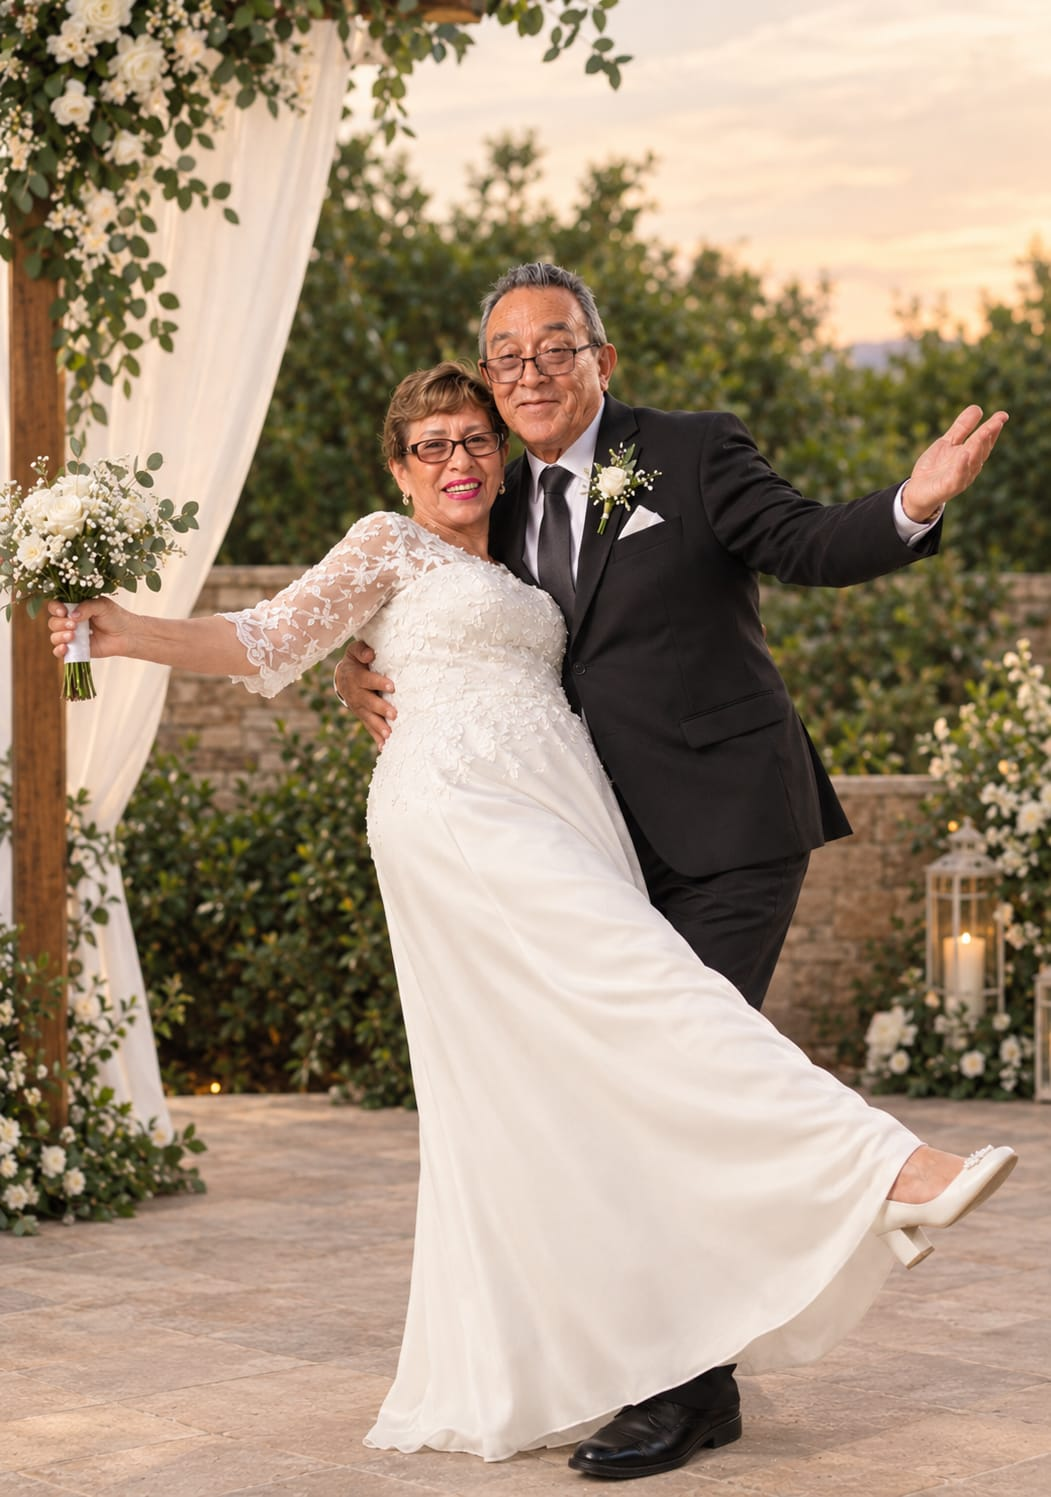
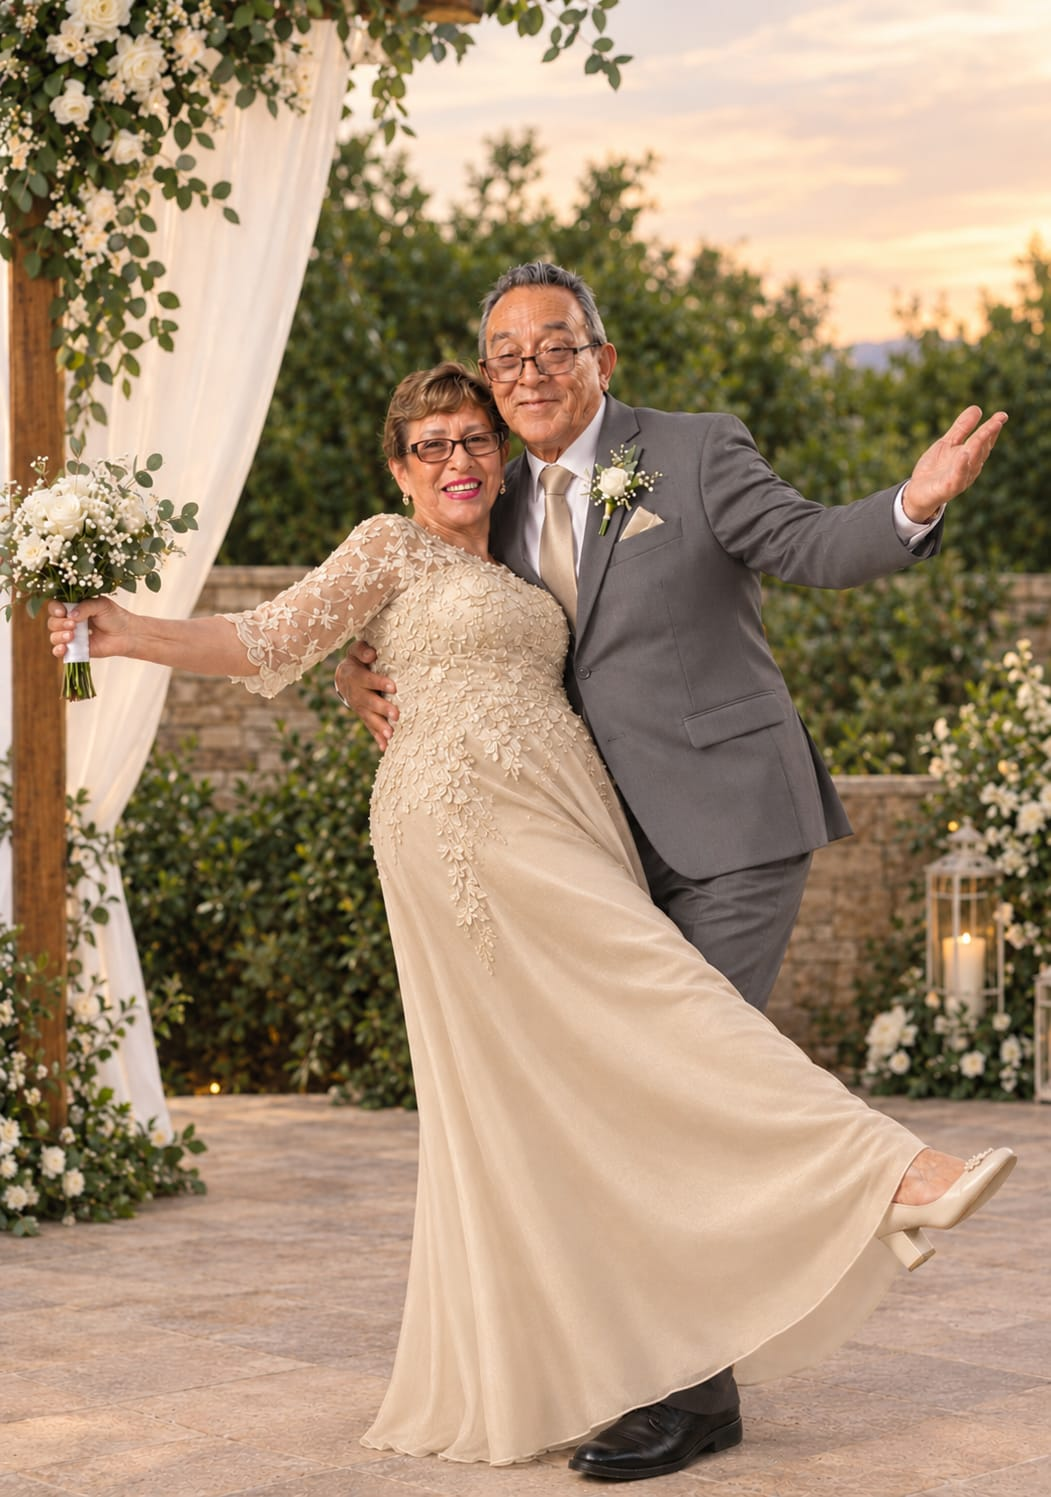
modified:   assets/pareja_6.jpeg 	modified:   index.html

diff --git a/index.html b/index.html
@@ -8,7 +8,7 @@
 <meta name="robots" content="noindex">
 <link rel="preconnect" href="https://fonts.googleapis.com">
 <link rel="preconnect" href="https://fonts.gstatic.com" crossorigin>
-<link href="https://fonts.googleapis.com/css2?family=Cormorant+Garamond:ital,wght@0,400;0,500;0,600;1,400&family=Pinyon+Script&display=swap" rel="stylesheet">
+<link href="https://fonts.googleapis.com/css2?family=Cormorant+Garamond:ital,wght@0,400;0,500;0,600;0,700;1,400&family=Dancing+Script:wght@500;600;700&family=Pinyon+Script&display=swap" rel="stylesheet">
 <style>
 :root{
   --bg:#faf6ee;--card:#fffdf8;--ink:#3a3226;--soft:#7a6f5e;--gold:#a98a3d;--gold2:#d8bf7a;--deep:#2b2417;--line:rgba(169,138,61,.35);
@@ -48,11 +48,11 @@ h1,h2,h3,p{margin:0}
 @keyframes pulso{50%{opacity:.35}}
 @keyframes halo-dorado{50%{opacity:.48;transform:scale(1.012)}}
 @keyframes recuerdo-vivo{to{transform:scale(1.09)}}
-@keyframes entra-recuerdo-oceano{from{opacity:0;transform:translateX(-28px) rotate(-5deg) scale(.96)}to{opacity:1;transform:rotate(-1.3deg) scale(1)}}
-@keyframes entra-recuerdo-pradera{from{opacity:0;transform:translateY(30px) rotate(4deg) scale(.96)}to{opacity:1;transform:rotate(1deg) scale(1)}}
-@keyframes entra-recuerdo-cerezos{from{opacity:0;transform:scale(.88) rotate(-4deg)}to{opacity:1;transform:rotate(-.5deg) scale(1)}}
-@keyframes entra-recuerdo-atardecer{from{opacity:0;transform:translateY(26px) rotate(5deg)}to{opacity:1;transform:rotate(1.2deg)}}
-@keyframes entra-recuerdo-bodas{from{opacity:0;transform:translateX(26px) rotate(-4deg) scale(.96)}to{opacity:1;transform:rotate(-.8deg) scale(1)}}
+@keyframes entra-recuerdo-oceano{from{opacity:0;transform:translateX(-28px) scale(.96)}to{opacity:1;transform:scale(1)}}
+@keyframes entra-recuerdo-pradera{from{opacity:0;transform:translateY(30px) scale(.96)}to{opacity:1;transform:scale(1)}}
+@keyframes entra-recuerdo-cerezos{from{opacity:0;transform:scale(.88)}to{opacity:1;transform:scale(1)}}
+@keyframes entra-recuerdo-atardecer{from{opacity:0;transform:translateY(26px)}to{opacity:1}}
+@keyframes entra-recuerdo-bodas{from{opacity:0;transform:translateX(26px) scale(.96)}to{opacity:1;transform:scale(1)}}
 
 /* ---------- LAYOUT ---------- */
 main{max-width:560px;margin:0 auto;padding:0 18px 40px}
@@ -68,10 +68,10 @@ section{padding:34px 0;text-align:center}
 /* ---------- HERO ---------- */
 .hero{padding-top:52px;position:relative}
 .hero .eyebrow{font-size:1rem}
-.anniversary-badge{position:relative;display:inline-flex;align-items:center;justify-content:center;margin:36px auto 12px;padding:14px 42px;border-radius:999px;background:linear-gradient(135deg,#fff6d8 0%,#f1d582 25%,#c89c40 52%,#f8ebbf 100%);border:1px solid rgba(113,83,24,.45);box-shadow:0 16px 26px -18px rgba(72,54,14,.85),inset 0 2px 0 rgba(255,255,255,.7);transform:rotate(-2deg);overflow:hidden}
+.anniversary-badge{position:relative;display:inline-flex;align-items:center;justify-content:center;margin:36px auto 12px;padding:14px 42px;border-radius:999px;background:linear-gradient(135deg,#fff6d8 0%,#f1d582 25%,#c89c40 52%,#f8ebbf 100%);border:1px solid rgba(113,83,24,.45);box-shadow:0 16px 26px -18px rgba(72,54,14,.85),inset 0 2px 0 rgba(255,255,255,.7);overflow:hidden}
 .anniversary-badge::before,.anniversary-badge::after{content:"✦";position:absolute;top:50%;transform:translateY(-50%);font-size:1.45rem;color:rgba(85,61,7,.7)}
 .anniversary-badge::before{left:16px}.anniversary-badge::after{right:16px}
-.anniversary-badge span{display:block;padding:0 10px;font-size:1.05rem;letter-spacing:.26em;text-transform:uppercase;font-weight:800;color:#3d2e13;text-shadow:0 1px 0 rgba(255,255,255,.52)}
+.anniversary-badge span{display:block;padding:0 10px;font-size:1.15rem;letter-spacing:.2em;text-transform:uppercase;font-weight:700;color:#2b1f09;text-shadow:0 1px 0 rgba(255,255,255,.52)}
 .marco{position:relative;width:min(78%,330px);margin:0 auto 6px;aspect-ratio:4/5;border-radius:999px 999px 6px 6px;padding:10px;border:1px solid var(--gold2);box-shadow:0 0 0 7px rgba(255,253,248,.62),0 18px 42px -24px rgba(80,60,10,.5)}
 .marco::before{content:"";position:absolute;inset:-7px;border:1px solid rgba(216,191,122,.45);border-radius:inherit;pointer-events:none;animation:halo-dorado 5s ease-in-out infinite}
 .marco-in{width:100%;height:100%;border-radius:999px 999px 2px 2px;overflow:hidden;background:linear-gradient(160deg,#eadcb6,#c9ad63);display:grid;place-items:center;text-align:center;color:#fff8e2;font-size:.9rem;letter-spacing:.08em}
@@ -83,15 +83,15 @@ section{padding:34px 0;text-align:center}
 .recuerdos-grid{display:grid;grid-template-columns:1fr;gap:12px;max-width:520px;margin:0 auto}
 .recuerdos-grid figure{position:relative;margin:0;padding:7px;border:1px solid var(--line);background:var(--card);box-shadow:0 12px 28px -18px rgba(60,45,10,.5);transition:transform .45s ease,box-shadow .45s ease}
 .recuerdos-grid img{display:block;width:100%;height:auto;transition:transform .5s ease}
-.foto-oceano{padding:10px 10px 30px!important;border-color:rgba(169,138,61,.58)!important;background:linear-gradient(145deg,#fffefa,#f5edda)!important;transform:rotate(-1.3deg);box-shadow:0 18px 32px -20px rgba(60,45,10,.58)!important}
+.foto-oceano{padding:10px 10px 30px!important;border-color:rgba(169,138,61,.58)!important;background:linear-gradient(145deg,#fffefa,#f5edda)!important;box-shadow:0 18px 32px -20px rgba(60,45,10,.58)!important}
 .foto-oceano::after{content:"♡";position:absolute;right:17px;bottom:0;color:var(--gold);font:1.35rem var(--serif)}
-.foto-pradera{padding:9px!important;border:3px double rgba(169,138,61,.62)!important;background:#fffdf8!important;transform:rotate(1deg);box-shadow:0 0 0 5px rgba(216,191,122,.15),0 18px 32px -20px rgba(60,45,10,.55)!important}
+.foto-pradera{padding:9px!important;border:3px double rgba(169,138,61,.62)!important;background:#fffdf8!important;box-shadow:0 0 0 5px rgba(216,191,122,.15),0 18px 32px -20px rgba(60,45,10,.55)!important}
 .foto-pradera::before{content:"";position:absolute;inset:4px;border:1px solid rgba(216,191,122,.4);pointer-events:none;z-index:1}
-.foto-cerezos{padding:8px!important;border:1px solid rgba(169,138,61,.48)!important;border-radius:20px!important;background:linear-gradient(135deg,#fffdf8,#f5e8e4)!important;transform:rotate(-.5deg);box-shadow:0 15px 34px -18px rgba(90,55,40,.45)!important}
+.foto-cerezos{padding:8px!important;border:1px solid rgba(169,138,61,.48)!important;border-radius:20px!important;background:linear-gradient(135deg,#fffdf8,#f5e8e4)!important;box-shadow:0 15px 34px -18px rgba(90,55,40,.45)!important}
 .foto-cerezos img{border-radius:13px}
-.foto-atardecer{padding:9px!important;border:1px solid #d8bf7a!important;background:linear-gradient(145deg,#34251f,#120f13)!important;transform:rotate(1.2deg);box-shadow:0 18px 38px -18px rgba(35,21,17,.65)!important}
+.foto-atardecer{padding:9px!important;border:1px solid #d8bf7a!important;background:linear-gradient(145deg,#34251f,#120f13)!important;box-shadow:0 18px 38px -18px rgba(35,21,17,.65)!important}
 .foto-atardecer img{filter:saturate(.92) contrast(1.04)}
-.foto-bodas{padding:12px!important;border:3px double rgba(169,138,61,.72)!important;background:linear-gradient(145deg,#fffefa,#eee1c4)!important;transform:rotate(-.8deg);box-shadow:0 0 0 5px rgba(255,253,248,.8),0 20px 38px -20px rgba(60,45,10,.58)!important}
+.foto-bodas{padding:12px!important;border:3px double rgba(169,138,61,.72)!important;background:linear-gradient(145deg,#fffefa,#eee1c4)!important;box-shadow:0 0 0 5px rgba(255,253,248,.8),0 20px 38px -20px rgba(60,45,10,.58)!important}
 .foto-bodas::before{content:"";position:absolute;inset:5px;border:1px solid rgba(216,191,122,.5);pointer-events:none;z-index:1}
 .recuerdos.visible .foto-oceano{animation:entra-recuerdo-oceano .95s .12s both cubic-bezier(.2,.7,.2,1)}
 .recuerdos.visible .foto-pradera{animation:entra-recuerdo-pradera .95s .12s both cubic-bezier(.2,.7,.2,1)}
@@ -107,7 +107,7 @@ section{padding:34px 0;text-align:center}
   .foto-bodas:hover{box-shadow:0 0 0 5px rgba(255,253,248,.8),0 24px 44px -20px rgba(60,45,10,.65)!important}
 }
 .mono{position:relative;z-index:2;width:62px;height:62px;margin:-31px auto 0;background:url(assets/sello.png) center/260% no-repeat;filter:drop-shadow(0 5px 6px rgba(80,60,10,.35))}
-.hero h1{font-family:var(--script);font-weight:400;font-size:clamp(3.4rem,15vw,5rem);line-height:1.15;margin:28px 0 6px}
+.hero h1{font-family:'Dancing Script',var(--script);font-weight:600;font-size:clamp(3.4rem,15vw,5rem);line-height:1.15;margin:28px 0 6px}
 .fecha{display:flex;justify-content:center;align-items:center;gap:18px;margin-top:10px;letter-spacing:.3em;text-transform:uppercase;font-size:.85rem}
 .fecha b{font-size:2.6rem;font-weight:500;letter-spacing:0;line-height:1;color:var(--gold)}
 .fecha span{padding:0 4px;border-inline:1px solid var(--line);padding-inline:18px;line-height:1.5}
@@ -119,18 +119,20 @@ section{padding:34px 0;text-align:center}
 .evento .titulo{font-size:clamp(1.8rem,7vw,2.4rem);line-height:1.2}
 .fecha-evento{margin-top:16px;color:var(--soft);font-size:1.25rem;letter-spacing:.08em}
 .frase{font-size:1.3rem;font-style:italic;line-height:1.75}
+#frase{white-space:pre-line}
 .frase::before{content:"“";display:block;font:4rem/0.6 var(--serif);color:#d8bf7a;margin-bottom:10px}
 .nombres-padrinos p{font-size:1.2rem;margin-top:8px}
 .lugar{font-size:1.5rem;font-weight:600;margin-top:12px}
 .dir{color:var(--soft);margin-top:2px}
 .vestimenta-tipo{font-size:1.8rem;font-weight:600;color:var(--gold);margin:10px 0}
 .vestimenta-nota{max-width:380px;margin:0 auto;color:var(--soft)}
+.evento .eyebrow{font-size:1.05rem;font-weight:700;letter-spacing:.2em;color:var(--deep)}
 .horarios{display:grid;grid-template-columns:1fr 1fr;margin:26px 0 28px;border-block:1px solid var(--line)}
 .horarios div{padding:16px 6px;text-align:center}
 .horarios.una-hora{grid-template-columns:1fr}
 .horarios.una-hora div+div{border-left:0}
 .horarios div+div{border-left:1px solid var(--line)}
-.horarios dt{font-size:.74rem;letter-spacing:.3em;text-transform:uppercase;color:var(--soft)}
+.horarios dt{font-size:1.05rem;letter-spacing:.2em;text-transform:uppercase;font-weight:700;color:var(--deep)}
 .horarios dd{margin:4px 0 0;font-size:1.5rem;font-weight:500;color:var(--gold)}
 .evento .card>*{opacity:0;transform:translateY(12px);transition:opacity .75s ease,transform .75s cubic-bezier(.2,.7,.2,1)}
 .evento.visible .card>*{opacity:1;transform:translateY(0)}
@@ -150,7 +152,9 @@ section{padding:34px 0;text-align:center}
 .cuenta div{min-width:68px;padding:14px 4px 10px;border:1px solid var(--line);background:rgba(255,253,248,.7)}
 .cuenta b{display:block;font:500 2.4rem/1 var(--serif);color:var(--gold);font-variant-numeric:tabular-nums}
 .cuenta span{font-size:.66rem;letter-spacing:.25em;text-transform:uppercase;color:var(--soft)}
-.rsvp-note{margin:14px auto 24px;max-width:340px}
+.rsvp-note{max-width:440px;margin:14px auto 18px;text-align:center}
+.rsvp-date{display:block;margin-top:4px;font-family:var(--script);font-size:clamp(1.6rem,5.5vw,2rem);line-height:1.2;color:var(--gold)}
+.rsvp-thanks{text-align:center}
 .rsvp-note strong{color:var(--gold);font-weight:600}
 .aviso{margin-top:22px;font-size:.92rem;color:var(--soft);font-style:italic}
 .estado{min-height:1.5em;margin:12px 0 0;font-style:italic;color:var(--soft)}
@@ -229,6 +233,14 @@ select:focus,textarea:focus{outline:2px solid var(--gold);outline-offset:1px}
     </div>
   </section>
 
+  <!-- PADRINOS -->
+  <section class="reveal">
+    <div class="card">
+      <h2 class="titulo">Padrinos</h2>
+      <div class="nombres-padrinos" id="padrinos"></div>
+    </div>
+  </section>
+
   <!-- FOTO -->
   <section class="recuerdos reveal">
     <div class="recuerdos-grid">
@@ -254,16 +266,6 @@ select:focus,textarea:focus{outline:2px solid var(--gold);outline-offset:1px}
     </div>
   </section>
 
-  <!-- CÓDIGO DE VESTIMENTA -->
-  <section class="reveal">
-    <div class="card">
-      <p class="eyebrow">Importante</p>
-      <h2 class="titulo">Código de vestimenta</h2>
-      <p class="vestimenta-tipo">Formal</p>
-      <p class="vestimenta-nota">Para mantener la armonía de nuestra celebración, agradecemos evitar los tonos gris y azul marino.</p>
-    </div>
-  </section>
-
   <!-- CUENTA -->
   <section class="reveal">
     <div class="card dark">
@@ -283,11 +285,12 @@ select:focus,textarea:focus{outline:2px solid var(--gold);outline-offset:1px}
     </div>
   </section>
 
-  <!-- PADRINOS -->
+  <!-- CÓDIGO DE VESTIMENTA -->
   <section class="reveal">
     <div class="card">
-      <h2 class="titulo">Padrinos</h2>
-      <div class="nombres-padrinos" id="padrinos"></div>
+      <h2 class="titulo">Código de vestimenta</h2>
+      <p class="vestimenta-tipo">Formal</p>
+      <p class="vestimenta-nota">Para mantener la armonía de nuestra celebración, agradecemos evitar los tonos gris y azul marino.</p>
     </div>
   </section>
 
@@ -301,7 +304,8 @@ select:focus,textarea:focus{outline:2px solid var(--gold);outline-offset:1px}
   <section class="reveal">
     <div class="card">
       <h2 class="titulo">Esperamos contar con tu presencia</h2>
-      <p class="rsvp-note">Gracias por acompañarnos en este momento tan especial de nuestra historia.</p>
+      <p class="rsvp-thanks">Gracias por acompañarnos en este momento tan especial de nuestra historia.</p>
+      <p class="rsvp-note">Favor de confirmar tu asistencia antes del <span class="rsvp-date">01 de enero de 2027</span></p>
     </div>
   </section>
 
@@ -341,7 +345,7 @@ const EVENTO={
   whatsapp:"5210000000000"
 };
 const RSVP_URL="https://script.google.com/macros/s/AKfycbyyjNp0wg1rtRFOgCwZpf6X9iF_rYku1c2zW-b_RzCx7gL20cN6mAJl2d_z7tyVBPtH/exec";
-const FRASE="Padre celestial, tu gracia nos unió hace 50 años y tu fidelidad nos ha dado alegrías, fortaleza en los momentos difíciles y ha mantenido viva la llama de nuestro amor. Somos una pareja de oro. Gracias a ti, Dios Padre.";
+const FRASE="Padre celestial tu gracia nos unió hace 50 años y tu fidelidad.\n\nNos has dado alegrías compartidas, fortaleza en momentos difíciles y mantener encendida la llama de nuestro amor.\n\nSomos una pareja de oro.\n\nGracias a ti Dios padre.";
 const PADRINOS=[
   "Arlett Gaona Fuentes",
   "Javier Gaona Fuentes",
